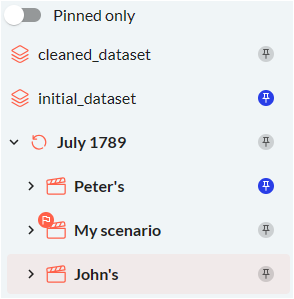
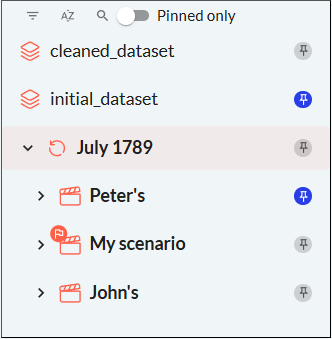
Backport - Data node selector doc update for 4.0 (#1210) (#1211)

diff --git a/taipy_theme/assets/stylesheets/avaiga.css b/taipy_theme/assets/stylesheets/avaiga.css
@@ -915,12 +915,19 @@ figure.tp-center {
 [data-md-color-scheme="default"] .visible-dark{
   display: none;
 }
-
 [data-md-color-scheme="slate"] .visible-light{
   display: none;
 }
+
 a.md-content__button{
   display: none;
+}
+
+svg.mui-icon{
+    width: 1.4em;
+    height: 1.4em;
+    vertical-align: middle;
+    fill: currentColor;
 }
 
 .tp-btn-parent,

diff --git a/docs/release-notes/index.md b/docs/release-notes/index.md
@@ -42,19 +42,36 @@ Published on 2024-10.
 
 <h4><strong><code>taipy</code></strong> 4.0.0</h4>
 
-- The User Experience of the Scenario and Data management Visual elements have been greatly
-  improved by the following new functionalities:
-    - The multiple selection is now available on the data node selector: TODO add details
-    - A filter capability has been added to the data node selector: TODO add details
-    - A sort capability has been added to the data node selector: TODO add details
-    - A search capability has been added to the data node selector: TODO add details
-    - A new detail panel has been added to the job selector: TODO add details
-    - The multiple selection is now available on the scenario selector: TODO add details
+The User Experience of the Scenario and Data management controls have been greatly improved by the
+following new functionalities:
+
+- [*Scenario Selector*](../refmans/gui/viselements/corelements/scenario_selector.md):
+    - Multiple selection is now available.<br/>
+      See the [*multiple*](../refmans/gui/viselements/corelements/scenario_selector.md#p-multiple)
+      property for more details.
     - A filter capability has been added to the scenario selector: TODO add details
     - A sort capability has been added to the scenario selector: TODO add details
     - A search capability has been added to the scenario selector: TODO add details
-    - The data node viewer now offers the possibility to upload/download data for the file
-        based data nodes: TODO add details
+- [*Data Node Selector*](../refmans/gui/viselements/corelements/data_node_selector.md):
+    - Multiple selection is now available.<br/>
+      See the [*multiple*](../refmans/gui/viselements/corelements/data_node_selector.md#p-multiple)
+      property for more details.
+    - Users can now filter data nodes in the list.<br/>
+      See the
+      [section on Filtering](../refmans/gui/viselements/corelements/data_node_selector.md#filtering)
+      for more details.
+    - Users can now sort data nodes in the list.<br/>
+      See the
+      [section on Sorting](../refmans/gui/viselements/corelements/data_node_selector.md#sorting) for
+      more details.
+    - Users can now search data nodes in the list<br/>
+      See the
+      [section on Searching](../refmans/gui/viselements/corelements/data_node_selector.md#searching)
+      for more details.
+- [*Data Node Viewer*](../refmans/gui/viselements/corelements/data_node.md):
+    - Users can now upload and download data of file-based data nodes.
+- [*Job Selector*](../refmans/gui/viselements/corelements/job_selector.md):
+    - A new detail panel has been added to the job selector.
 
 <h4><strong><code>taipy-gui</code></strong> 4.0.0</h4>
 
@@ -274,7 +291,7 @@ Published on 2024-10.
 - Table columns are too narrow if there are many.<br/>
   See [issue #2082](https://github.com/Avaiga/taipy/issues/2082).
 - Styling is not applied to a [`table`](../refmans/gui/viselements/generic/table.md) control if its
-  [*rebuild*](../refmans/gui/viselements/corelements/data_node.md#p-rebuild) property is set to
+  [*rebuild*](../refmans/gui/viselements/generic/table.md#p-rebuild) property is set to
   True.<br/>
   See [issue #2005](https://github.com/Avaiga/taipy/issues/2005).
 
